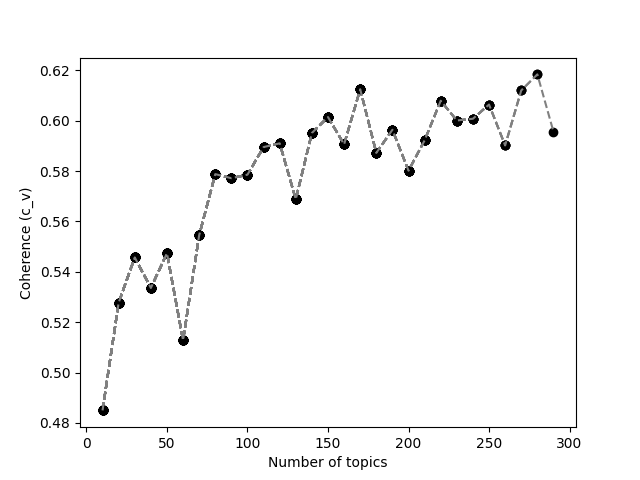
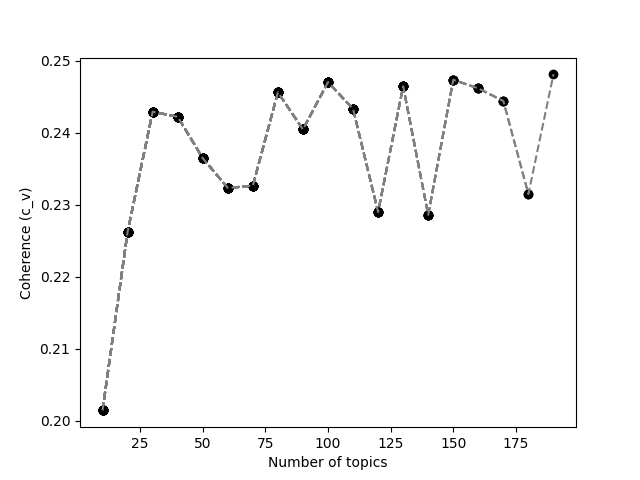
update min df

diff --git a/src/coherence_topics.py b/src/coherence_topics.py
@@ -79,7 +79,7 @@ def main(path, n_texts, measure, language):
     vectorizer = CountVectorizer(
         stop_words=stop_words,
         max_df=0.5,
-        min_df=1,
+        min_df=0.01,
     )
 
     print("vectorizing and tokenizing tweets")
@@ -92,7 +92,7 @@ def main(path, n_texts, measure, language):
     pool = multiprocessing.Pool(5)
     tok_tweets = pool.map(functools.partial(tokenize, vocab=vocab, regex=regex), tweets)
 
-    n_topics = [n * 10 for n in range(1, 30)]
+    n_topics = [n * 10 for n in range(1, 20)]
     coherences = []
 
     for i, n_topic in enumerate(n_topics, start=1):
@@ -124,7 +124,7 @@ def main(path, n_texts, measure, language):
         plt.plot(n_topics[:i], coherences, "--", color="grey")
         plt.xlabel("Number of topics")
         plt.ylabel(f"Coherence ({measure})")
-        plt.savefig(f"fig/topic_coherence_{measure}.png")
+        plt.savefig(f"fig/topic_coherence_{measure}_2.png")
 
 
 if __name__ == "__main__":

diff --git a/src/tweets_topic.py b/src/tweets_topic.py
@@ -48,7 +48,7 @@ def main(in_filepath: str, out_filepath: str, n_topics: int, language: str):
     vectorizer = CountVectorizer(
         stop_words=stop_words,
         max_df=0.5,
-        min_df=1,
+        min_df=0.01,
     )
     dmm = DMM(
         n_components=n_topics,
